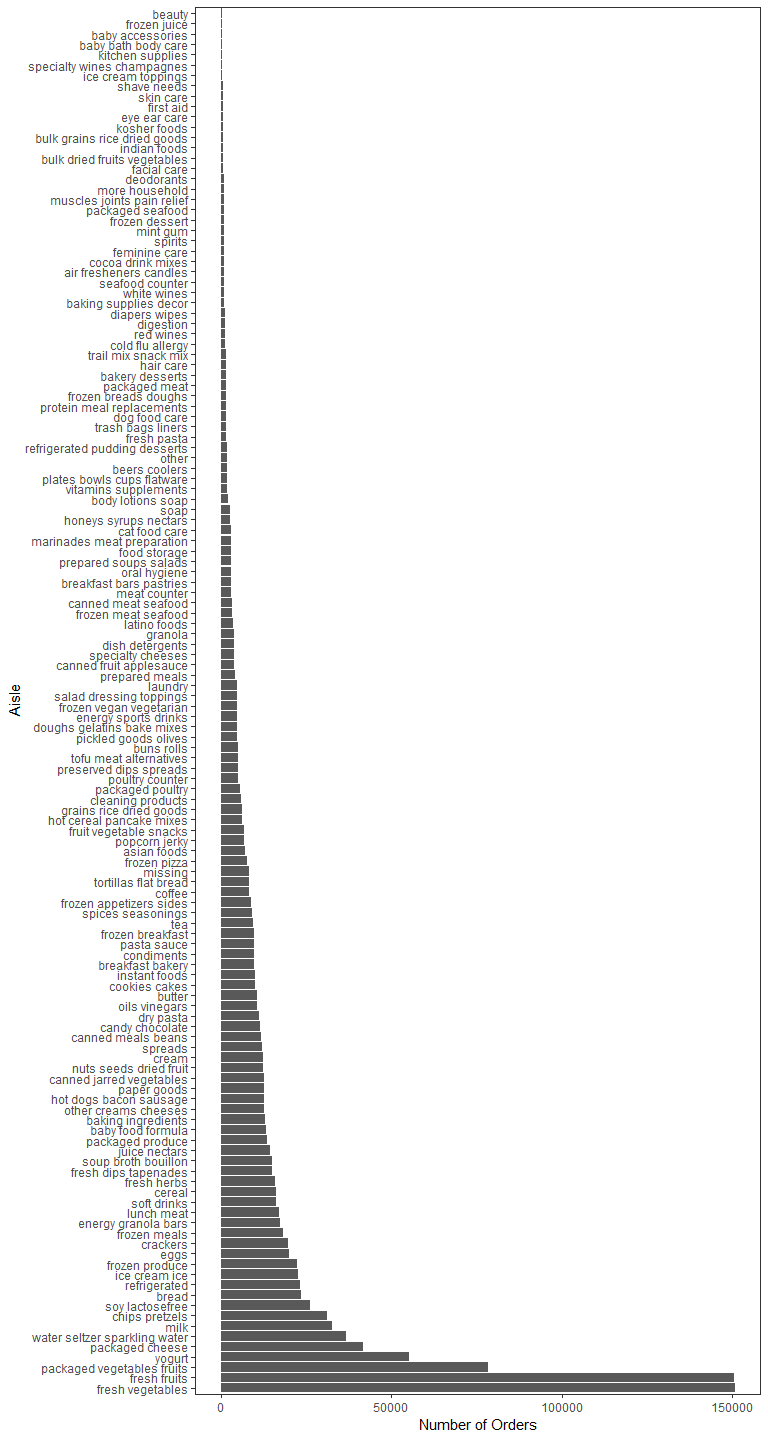
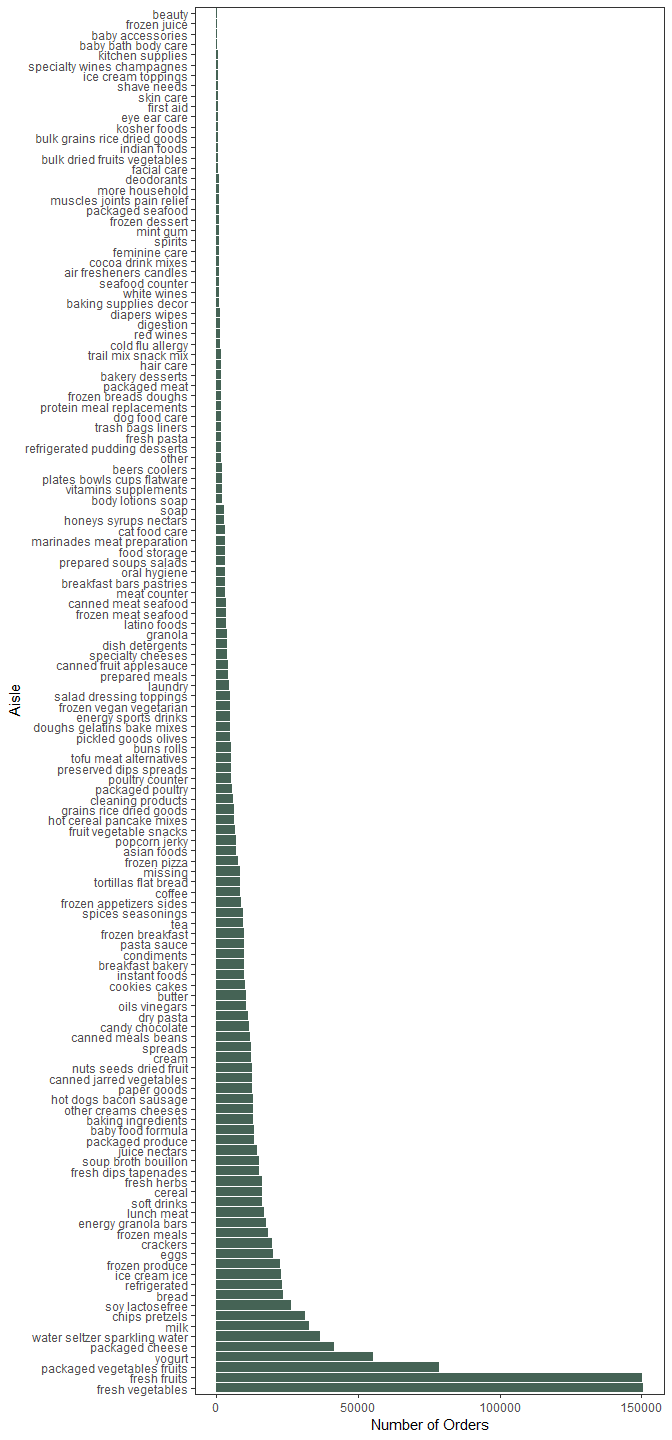
first draft of the average hour of the day , by the day of the week, table for insta cart data.

diff --git a/p8105_hw3_ntw2117.md b/p8105_hw3_ntw2117.md
@@ -204,14 +204,29 @@ numb_orders %>%
   mutate(aisle = forcats::fct_reorder(aisle, n, .desc = TRUE)) %>% 
   ggplot(aes(x = aisle, y = n)) + 
   coord_flip() + 
-  geom_bar(stat = "identity") +
+  geom_bar(stat = "identity", fill = "#456355") +
     labs(y = "Number of Orders", 
         x = "Aisle") + 
     theme(panel.grid.major = element_blank(), 
           panel.grid.minor = element_blank()) 
 ```
 
-<img src="p8105_hw3_ntw2117_files/figure-markdown_github/items ordered in each aisle-1.png" style="display: block; margin: auto;" />
+<img src="p8105_hw3_ntw2117_files/figure-markdown_github/items ordered in each aisle-1.png" width="85%" style="display: block; margin: auto;" />
+
+``` r
+insta_data %>% 
+  filter(product_name %in% c("Pink Lady Apples", "Coffee Ice Cream")) %>% 
+  select(product_name, order_dow, order_hour_of_day) %>% 
+  group_by(product_name, order_dow) %>% 
+  summarize(avg_hour = mean(order_hour_of_day)) %>%
+  spread(key = order_dow, value = avg_hour) %>% 
+  knitr::kable()
+```
+
+| product\_name    |         0|         1|         2|         3|         4|         5|         6|
+|:-----------------|---------:|---------:|---------:|---------:|---------:|---------:|---------:|
+| Coffee Ice Cream |  13.77419|  14.31579|  15.38095|  15.31818|  15.21739|  12.26316|  13.83333|
+| Pink Lady Apples |  13.44118|  11.36000|  11.70213|  14.25000|  11.55172|  12.78431|  11.93750|
 
 Problem 3
 ---------
